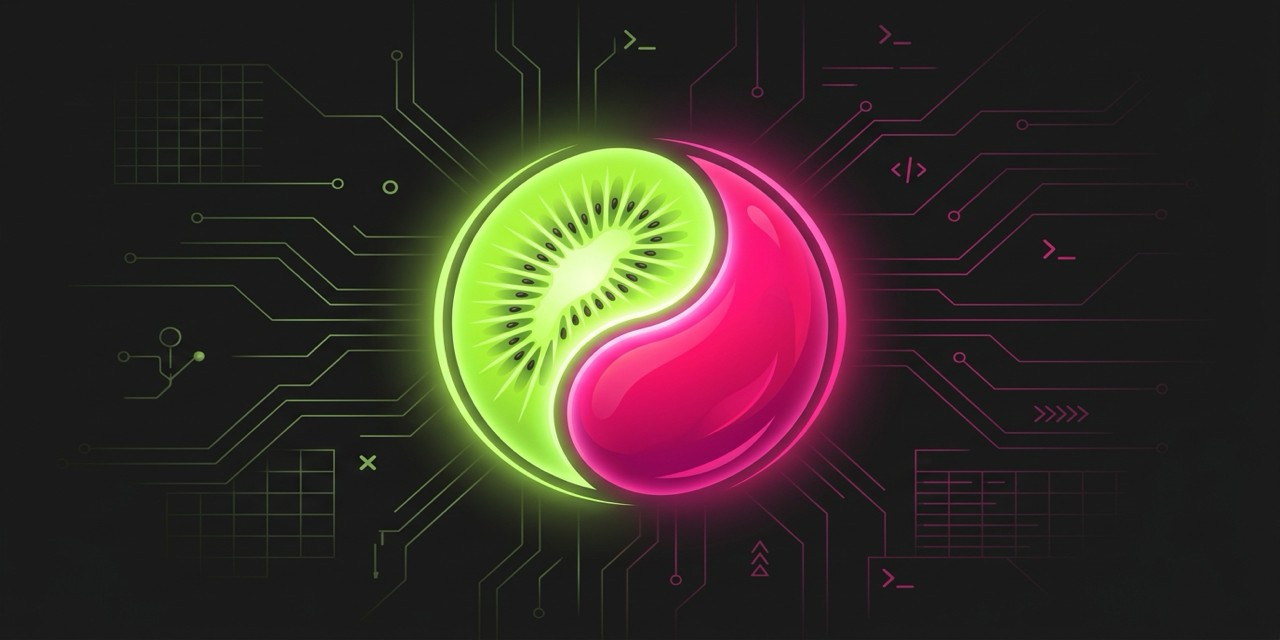
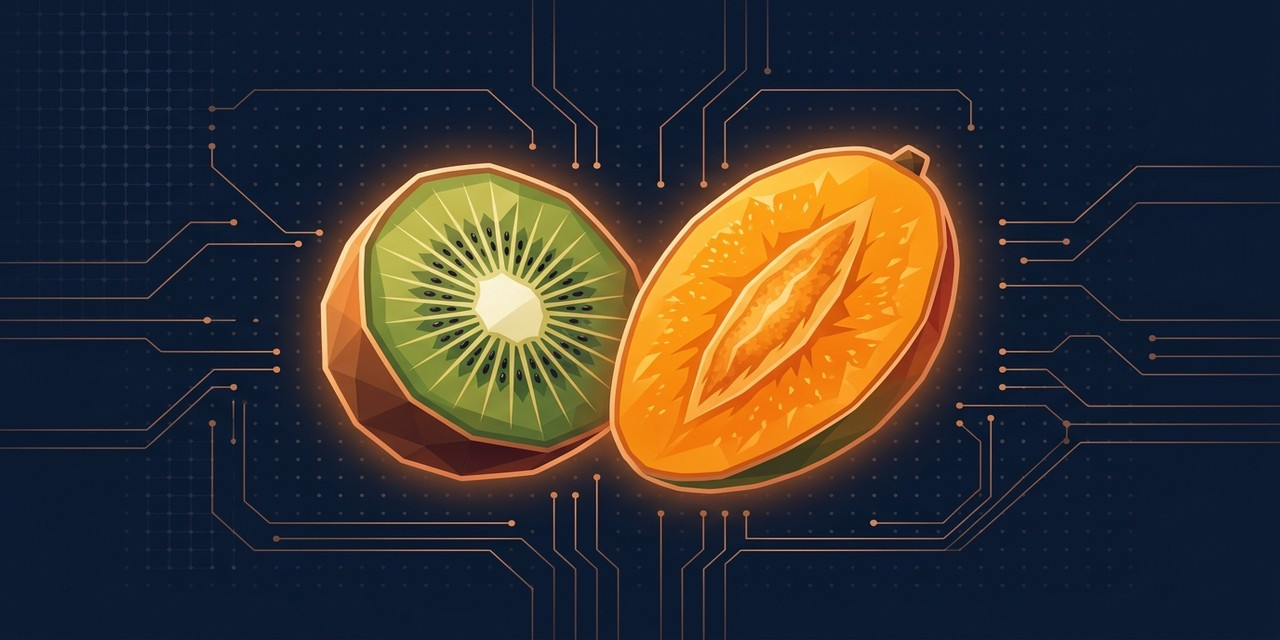
brand: nowa ikona i baner w aktualnej kolorystyce, README po angielsku
- Wygenerowano nową ikonę i baner w stylu deep navy + muted amber/copper
- Zbudowano AppIcon.icns z nowej ikony
- Skompresowano banner.jpg do 1280x640
- Przepisano README.md po angielsku
- Usunięto stopkę 'Built by human + Claude'

diff --git a/README.md b/README.md
@@ -4,7 +4,7 @@
 
 # kiwiMango
 
-**Natywny klient AI dla macOS — czaty lokalne i chmurowe oraz agenci kodujący w jednym oknie.**
+**Native macOS AI client — local and cloud chats plus coding agents in one window.**
 
 [![macOS](https://img.shields.io/badge/macOS-26+-000000?logo=apple&logoColor=white)](https://www.apple.com/macos)
 [![Swift](https://img.shields.io/badge/Swift-6-FA7343?logo=swift&logoColor=white)](https://swift.org)
@@ -13,243 +13,236 @@
 [![Release](https://img.shields.io/github/v/release/lubianiec/kiwiMango?color=green)](https://github.com/lubianiec/kiwiMango/releases/latest)
 [![License](https://img.shields.io/badge/license-MIT-green.svg)](LICENSE)
 
-*Deep Cyberpunk / Neon Noir UI — neonowa limonka i magenta na głębokiej ciemności.*
+*Deep navy terminal UI with muted amber/copper accents.*
 
 </div>
 
 ---
 
-## 📑 Spis treści
+## Table of contents
 
-- [Co to jest](#-co-to-jest)
-- [Dlaczego kiwiMango](#-dlaczego-kiwimango)
-- [Funkcje](#-główne-funkcje)
-- [Zrzuty ekranu](#-zrzuty-ekranu)
-- [Skróty klawiszowe](#-skróty-klawiszowe)
-- [Wymagania](#-wymagania)
-- [Szybki start](#-szybki-start)
-- [Architektura](#-architektura)
-- [Stack](#-stack)
-- [Makefile](#-makefile)
-- [Rozwiązywanie problemów](#-rozwiązywanie-problemów)
-- [Wkład](#-wkład)
-- [Prywatność](#-prywatność)
-- [Licencja](#-licencja)
-
----
-
-## 🚀 Co to jest
-
-**kiwiMango** to natywna aplikacja macOS do rozmów z modelami AI (Ollama) i równoległej pracy autonomicznych agentów kodujących. Żadnego Electrona, żadnej przeglądarki jako UI — czysty SwiftUI, lokalna baza SQLite i wbudowany terminal oparty na SwiftTerm.
-
-Działa z modelami lokalnymi poprzez Ollamę oraz z kontem cloud `ollama.com` — wszystko w jednym oknie.
+- [What it is](#what-it-is)
+- [Why kiwiMango](#why-kiwimango)
+- [Features](#features)
+- [Screenshots](#screenshots)
+- [Keyboard shortcuts](#keyboard-shortcuts)
+- [Requirements](#requirements)
+- [Quick start](#quick-start)
+- [Architecture](#architecture)
+- [Stack](#stack)
+- [Makefile](#makefile)
+- [Troubleshooting](#troubleshooting)
+- [Contributing](#contributing)
+- [Privacy](#privacy)
+- [License](#license)
 
 ---
 
-## 🎯 Dlaczego kiwiMango
+## What it is
 
-| Problem | Jak to rozwiązujemy |
-|---------|---------------------|
-| Electron pożera RAM i baterię | Natywny SwiftUI + Metal, zero przeglądarki w tle |
-| Historia czatów w chmurze obcej firmy | Lokalna baza SQLite (GRDB), wszystko na Twoim dysku |
-| Agenci kodujący w osobnych terminalach | Wbudowane sesje Claude Code / Hermes Agent / Codex w jednym oknie |
-| Skakanie między czatem a narzędziami | Sidebar + Centrum Dowodzenia + Hermes HUD w jednej aplikacji |
-| Brak prywatności przy modelach lokalnych | Bezpośrednie połączenie z Ollamą, bez pośrednika |
+**kiwiMango** is a native macOS app for chatting with AI models (Ollama) and running autonomous coding agents side by side. No Electron, no browser shell — pure SwiftUI, a local SQLite database, and a built-in terminal powered by SwiftTerm.
+
+It works with local models through Ollama and with an `ollama.com` cloud account, all in one window.
 
 ---
 
-## ✨ Główne funkcje
+## Why kiwiMango
 
-### 💬 Czat AI
-- **Streaming odpowiedzi** z pulsującym kursorem i statystykami tok/s
-- **Markdown** + kolorowanie składni z przyciskiem „kopiuj" dla każdego bloku kodu
-- **Historia w SQLite** (GRDB) — wszystkie rozmowy zostają na Twoim dysku
-- **Załączniki obrazów** do modeli vision (drag & drop, HEIC → JPEG)
-- **Fork rozmowy**, zmiana nazwy, duplikowanie, eksport do Markdown i Obsidian
-- **Wyszukiwarka** rozmów po tytułach i treści
-- **Persony** — profile modeli z własnym system promptem i temperaturą
-
-### 🤖 Agenci
-- Wbudowane sesje **Claude Code / Hermes Agent / Codex** poprzez `ollama launch`
-- **Równoległe sesje** — każdy agent ma swój model, katalog roboczy i terminal
-- Przełączanie czat ↔ agent nie ubija sesji
-- Czyste zamykanie — zero procesów-zombie po wyjściu z aplikacji
-- Historia agentów zapisywana w bazie
-
-### 🎛 Dashboard i status
-- **Centrum Dowodzenia** — podgląd wszystkich żywych agentów
-- **Hermes HUD** — osadzony lokalny dashboard pamięci, cronów i kosztów
-- **Status bar** z realnym pingiem Ollamy, latencją i licznikiem agentów
-- **Dyktowanie** po polsku przez `SFSpeechRecognizer`
-
-### 🎨 Wygląd
-- Neonowy interfejs inspirowany terminalami cyberpunk
-- Efekty Metal (żywe tło, bloom, materializowanie wiadomości)
-- Responsywny layout sidebar / detail
+| Problem | How kiwiMango solves it |
+|---------|------------------------|
+| Electron drains RAM and battery | Native SwiftUI + Metal, no browser background process |
+| Chat history in a stranger's cloud | Local SQLite (GRDB), everything stays on your disk |
+| Coding agents live in separate terminals | Built-in Claude Code / Hermes Agent / Codex sessions in one window |
+| Jumping between chat and tools | Sidebar + Mission Control + Hermes HUD in one app |
+| No privacy with local models | Direct connection to Ollama, no middleman |
 
 ---
 
-## 📸 Zrzuty ekranu
+## Features
 
-> *Zrzuty ekranu zostaną dodane w kolejnej iteracji. Tymczasem możesz zobaczyć UI uruchamiając aplikację lokalnie.*
+### Chat AI
+- **Streaming responses** with a pulsing cursor and live tok/s stats
+- **Markdown** + syntax-highlighted code blocks with a copy button
+- **SQLite history** (GRDB) — all conversations stay on your disk
+- **Image attachments** for vision models (drag & drop, HEIC → JPEG)
+- **Fork conversation**, rename, duplicate, export to Markdown and Obsidian
+- **Conversation search** across titles and content
+- **Personas** — model profiles with custom system prompts and temperature
+
+### Agents
+- Built-in **Claude Code / Hermes Agent / Codex** via `ollama launch`
+- **Parallel sessions** — each agent has its own model, working directory, and terminal
+- Switching chat ↔ agent does not kill sessions
+- Clean shutdown — zero zombie processes when you quit
+- Agent history stored in the local database
+
+### Dashboard and status
+- **Mission Control** — live overview of all running agents
+- **Hermes HUD** — embedded local dashboard for memory, cron jobs, and costs
+- **Status bar** with real Ollama ping, latency, and agent count
+- **Polish dictation** via `SFSpeechRecognizer`
+
+### Look and feel
+- Terminal-inspired interface with deep navy chrome
+- Metal effects (live backdrop, bloom, message materialization)
+- Responsive sidebar / detail layout
 
 ---
 
-## ⌨️ Skróty klawiszowe
+## Screenshots
 
-| Skrót | Akcja |
-|-------|-------|
-| `⌘N` | Nowa rozmowa |
-| `⌘T` | Nowy agent |
-| `⌘F` | Szukaj rozmów |
-| `⌃⌘S` | Schowaj / pokaż panel boczny |
-| `⇧⏎` | Nowa linia w polu wiadomości |
-| `⌘K` | Paleta komend |
-| `/` | Biblioteka promptów |
-| `⌘P` | Centrum Dowodzenia |
+> *Screenshots will be added in a future update. For now, run the app locally to see the UI.*
 
 ---
 
-## 🛠 Wymagania
+## Keyboard shortcuts
+
+| Shortcut | Action |
+|----------|--------|
+| `⌘N` | New conversation |
+| `⌘T` | New agent |
+| `⌘F` | Search conversations |
+| `⌃⌘S` | Show / hide sidebar |
+| `⇧⏎` | New line in composer |
+| `⌘K` | Command palette |
+| `/` | Prompt library |
+| `⌘P` | Mission Control |
+
+---
+
+## Requirements
 
 - **macOS 26+** (Swift 6 / SwiftUI)
-- [Ollama](https://ollama.com/download) z co najmniej jednym modelem
+- [Ollama](https://ollama.com/download) with at least one model
 - Xcode Command Line Tools
-- Dla agentów: `ollama launch claude` (Claude Code przez Ollamę)
+- For agents: `ollama launch claude` (Claude Code through Ollama)
 
-## ⚙️ Co działa od razu, a co jest opcjonalne
+## What works out of the box vs optional
 
-| Funkcja | Wymagane do działania | Status |
-|---------|----------------------|--------|
-| Czat z Ollama | Tylko Ollama + model | ✅ działa zawsze |
-| Agenci Claude Code / Hermes / Codex | `ollama launch claude` itp. | ⚙️ opcjonalnie |
-| Hermes Gateway czat | Binarka `hermes` CLI | ⚙️ opcjonalnie |
-| Hermes HUD | Python 3.11+, npm, git | ⚙️ opcjonalnie |
-| Claude Pro modele | Subskrypcja + `claude` CLI z `/login` | ⚙️ opcjonalnie |
-| Synchronizacja Obsidian | Folder vault (wybierasz przy pierwszym uruchomieniu) | ⚙️ opcjonalnie |
+| Feature | Required to run | Status |
+|---------|-----------------|--------|
+| Ollama chat | Ollama + a model | ✅ always works |
+| Claude Code / Hermes / Codex agents | `ollama launch claude` etc. | ⚙️ optional |
+| Hermes Gateway chat | `hermes` CLI binary | ⚙️ optional |
+| Hermes HUD | Python 3.11+, npm, git | ⚙️ optional |
+| Claude Pro models | Subscription + `claude` CLI `/login` | ⚙️ optional |
+| Obsidian sync | Vault folder (chosen on first launch) | ⚙️ optional |
 
 ---
 
-## ⚡ Szybki start
+## Quick start
 
 ```bash
 git clone https://github.com/lubianiec/kiwiMango.git
 cd kiwiMango
-make run        # zbuduj i uruchom
-make install    # zainstaluj w /Applications
-make dmg        # utwórz obraz dystrybucyjny
+make run        # build and run
+make install    # install to /Applications
+make dmg        # create a distributable image
 ```
 
-Po pierwszym uruchomieniu aplikacja łączy się z lokalną Ollamą (domyślnie `http://localhost:11434`). Jeśli używasz konta cloud, ustawienia znajdziesz w oknie Preferencji.
+On first launch, kiwiMango asks you to pick the Ollama host, default model, agent working directory, and optional Obsidian vault. You can change all of this later in Preferences.
 
-Możesz też pobrać gotowy obraz dystrybucyjny z [GitHub Releases](https://github.com/lubianiec/kiwiMango/releases/latest).
+You can also download a ready-to-use DMG from [GitHub Releases](https://github.com/lubianiec/kiwiMango/releases/latest).
 
 ---
 
-## 🧱 Architektura
+## Architecture
 
 ```
 Sources/kiwiMango/
-├── App.swift                  # @main, sceny, skróty globalne
+├── App.swift                  # @main, scenes, global shortcuts
 ├── RootView.swift             # NavigationSplitView: sidebar + detail
-├── DesignSystem.swift         # paleta Neon Noir, efekty, czcionki
-├── Chat/                      # czat: stan, widoki, transport HTTP
-├── Agents/                    # sesje agentów, SwiftTerm, telemetry
-├── Database/                  # GRDB: migracje, Conversation, StoredMessage
-├── HUD/                       # osadzony Hermes HUD (WKWebView)
-├── Shaders/                   # efekty Metal
-└── Resources/                 # ikony, mermaid.js offline
+├── DesignSystem.swift         # palette, effects, fonts
+├── Chat/                      # chat state, views, HTTP transport
+├── Agents/                    # agent sessions, SwiftTerm, telemetry
+├── Database/                  # GRDB: migrations, Conversation, StoredMessage
+├── HUD/                       # embedded Hermes HUD (WKWebView)
+├── Shaders/                   # Metal effects
+└── Resources/                 # icons, offline mermaid.js
 ```
 
 ---
 
-## 🧩 Stack
+## Stack
 
-| Warstwa | Technologia |
-|---------|-------------|
-| UI | SwiftUI (natywne okno macOS, zero Electrona) |
-| Baza | [GRDB 7](https://github.com/groue/GRDB.swift) + SQLite |
+| Layer | Technology |
+|-------|------------|
+| UI | SwiftUI (native macOS window, zero Electron) |
+| Database | [GRDB 7](https://github.com/groue/GRDB.swift) + SQLite |
 | Terminal | [SwiftTerm](https://github.com/migueldeicaza/SwiftTerm) (PTY) |
 | AI | Ollama HTTP API (`/api/chat`, NDJSON streaming) |
-| Shadery | Metal + SwiftUI ShaderLibrary |
+| Shaders | Metal + SwiftUI ShaderLibrary |
 | Build | Swift Package Manager + Makefile |
 
 ---
 
-## 📦 Makefile
+## Makefile
 
-| Komenda | Opis |
-|---------|------|
-| `make build` | Zbuduj aplikację |
-| `make run` | Zbuduj i uruchom |
-| `make install` | Zainstaluj w `/Applications/kiwiMango.app` |
-| `make dmg` | Wygeneruj `kiwiMango.dmg` |
-| `make clean` | Wyczyść build |
+| Command | Description |
+|---------|-------------|
+| `make build` | Build the app |
+| `make run` | Build and run |
+| `make install` | Install to `/Applications/kiwiMango.app` |
+| `make dmg` | Generate `kiwiMango.dmg` |
+| `make clean` | Clean build artifacts |
 
 ---
 
-## 🔧 Rozwiązywanie problemów
+## Troubleshooting
 
-### Aplikacja się nie buduje
+### App won't build
 ```bash
 make clean
 make build
 ```
 
-### Aplikacja się nie uruchamia po pobraniu DMG
+### App won't open after downloading the DMG
 
-macOS Gatekeeper może zablokować aplikację podpisaną ad-hoc. Rozwiązania:
-1. Kliknij prawym na `/Applications/kiwiMango.app` → **Otwórz** (pierwszy raz).
-2. Albo w terminalu: `xattr -rd com.apple.quarantine /Applications/kiwiMango.app`.
+macOS Gatekeeper may block an ad-hoc signed app. Options:
+1. Right-click `/Applications/kiwiMango.app` → **Open** (the first time).
+2. Or run in Terminal: `xattr -rd com.apple.quarantine /Applications/kiwiMango.app`.
 
-W przyszłości aplikacja zostanie podpisana certyfikatem Apple Developer, żeby
-ominąć ten krok.
+A future release will be signed with an Apple Developer certificate to remove this step.
 
-### Ollama nie jest widoczna
-Sprawdź, czy Ollama działa:
+### Ollama is not detected
+Check that Ollama is running:
 ```bash
 curl http://localhost:11434/api/tags
 ```
 
-### Brak uprawnień do mikrofonu / dyktowania
-Przejdź do **Ustawienia systemowe → Prywatność i bezpieczeństwo → Mikrofon** i zezwól kiwiMango.
+### Microphone / dictation permission denied
+Go to **System Settings → Privacy & Security → Microphone** and allow kiwiMango.
 
-### Agenci nie startują
-Upewnij się, że masz zainstalowany `claude` przez Ollamę:
+### Agents won't start
+Make sure you have `claude` installed through Ollama:
 ```bash
 ollama launch claude --help
 ```
 
 ---
 
-## 🤝 Wkład
+## Contributing
 
-Pull requesty i issue są mile widziane. Zanim zaczniesz większy refactor, otwórz issue, żeby omówić kierunek.
+Pull requests and issues are welcome. If you're planning a larger refactor, open an issue first to discuss direction.
 
-1. Fork repo
-2. Stwórz branch: `git checkout -b feature/nazwa`
-3. Commituj zmiany
-4. Otwórz PR do `main`
-
----
-
-## 🔒 Prywatność
-
-- Cała historia czatów mieszka w lokalnej bazie SQLite
-- Brak pośrednika w chmurze dla modeli lokalnych
-- Obsługa modeli cloud odbywa się bezpośrednio przez API Ollamy / ollama.com
-- Żadnych trackerów, analityki ani CDN — wszystkie zasoby UI są bundlowane
+1. Fork the repo
+2. Create a branch: `git checkout -b feature/name`
+3. Commit your changes
+4. Open a PR to `main`
 
 ---
 
-## 📝 Licencja
+## Privacy
 
-[MIT](LICENSE) — używaj, modyfikuj i rozwijaj.
+- All chat history lives in a local SQLite database
+- No middleman in the cloud for local models
+- Cloud model access goes directly through Ollama / ollama.com APIs
+- No trackers, analytics, or CDN — all UI resources are bundled
 
 ---
 
-<div align="center">
+## License
 
-*Zbudowane w duecie człowiek + Claude. 🥝🥭*
+[MIT](LICENSE) — use, modify, and extend freely.
 
 </div>